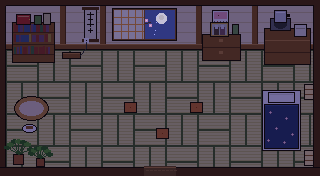
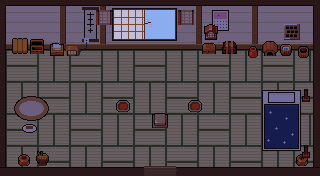
Дом: интерьер собран из ассетов Ninja Adventure, хитбоксы и точки взаимодействия под новую планировку
Claude-Session: https://claude.ai/code/session_0172VACPQPRWiGx6DQKvRskq

diff --git a/src/scenes/Home.ts b/src/scenes/Home.ts
@@ -13,16 +13,16 @@ const S = 3, OY = 6;                                   // масштаб и от
 const P = (x: number, y: number) => ({ x: x * S, y: y * S + OY });
 const SOLIDS: [number, number, number, number][] = [
   [0, 0, 320, 52], [0, 0, 6, 176], [313, 0, 7, 176], [0, 167, 144, 9], [176, 167, 144, 9],   // стены (кромка верхней — по плинтусу)
-  [12, 22, 43, 42], [62, 50, 19, 9], [202, 34, 39, 28], [264, 28, 47, 38],                 // полка, зарядка, комод, кухня
-  [262, 90, 40, 62], [304, 84, 10, 17], [304, 150, 10, 17], [136, 96, 48, 22],             // футон, андоны, котацу
-  [14, 98, 35, 21], [22, 124, 15, 9], [8, 140, 42, 27],                                     // лежанка, миска, растения
+  [10, 40, 72, 17], [198, 36, 42, 21], [244, 40, 70, 18],                                  // шкафы/стол/док, комод с алтарём, кухня
+  [262, 90, 40, 62], [301, 88, 11, 15], [301, 145, 11, 15], [136, 93, 48, 15],             // футон, андоны, столик
+  [14, 98, 35, 21], [22, 124, 15, 9], [16, 152, 35, 15], [294, 152, 16, 15],                // лежанка, миска, горшки, бонсай
 ];
 type Spot = { key: string; x: number; y: number; hint: string };
 const SP = (key: string, x: number, y: number, hint: string): Spot => ({ key, ...P(x, y), hint });
 const SPOTS: Spot[] = [
-  SP('futon', 254, 122, 'E — лечь спать'), SP('diary', 33, 72, 'E — дневник бабушки Хару'), SP('fuku', 72, 70, 'E — поговорить с Фуку'),
-  SP('photo', 221, 70, 'E — фотография'), SP('window', 144, 60, 'E — посмотреть в окно'), SP('tea', 286, 74, 'E — заварить чай'),
-  SP('kotatsu', 160, 130, 'E — посидеть у котацу'), SP('mochi', 56, 110, 'E — погладить Моти'), SP('door', 160, 160, 'E — выйти во двор'),
+  SP('futon', 254, 122, 'E — лечь спать'), SP('diary', 57, 70, 'E — дневник бабушки Хару'), SP('fuku', 72, 70, 'E — поговорить с Фуку'),
+  SP('photo', 214, 70, 'E — фотография'), SP('window', 144, 60, 'E — посмотреть в окно'), SP('tea', 278, 72, 'E — заварить чай'),
+  SP('kotatsu', 160, 124, 'E — посидеть у котацу'), SP('mochi', 56, 110, 'E — погладить Моти'), SP('door', 160, 160, 'E — выйти во двор'),
 ];
 
 export class Home extends Phaser.Scene {
@@ -63,7 +63,7 @@ export class Home extends Phaser.Scene {
     this.add.image(0, OY, 'home-px-day').setOrigin(0).setScale(S);
     this.roomNight = this.add.image(0, OY, 'home-px-night').setOrigin(0).setScale(S).setAlpha(night ? 1 : 0);
     // свет вечером: две лампы-андон у футона, тёплое пятно над котацу, лунный свет из окна
-    for (const [x, y, s, c] of [[308, 92, 1.3, 0xffc878], [308, 158, 1.3, 0xffc878], [160, 104, 3.0, 0xffb060], [144, 40, 1.8, 0x9fb8ff]] as [number, number, number, number][]) {
+    for (const [x, y, s, c] of [[306, 94, 1.3, 0xffc878], [306, 150, 1.3, 0xffc878], [160, 104, 3.0, 0xffb060], [144, 40, 1.8, 0x9fb8ff]] as [number, number, number, number][]) {
       const p = P(x, y);
       const g = this.add.image(p.x, p.y, 'glow').setScale(s).setBlendMode(Phaser.BlendModes.ADD).setTint(c).setAlpha(night ? 0.42 : 0);
       this.tweens.add({ targets: g, scale: s * 0.94, duration: 1300, yoyo: true, repeat: -1, ease: 'Sine.inOut' });
@@ -73,10 +73,10 @@ export class Home extends Phaser.Scene {
     const fp = P(262, 90);
     this.futonSleep = this.add.image(fp.x, fp.y, 'home-px-sleep').setOrigin(0).setScale(S).setAlpha(0).setDepth(fp.y + 1);
     // котацу — отдельным спрайтом: за ним можно пройти
-    const kp = P(132, 86);
-    this.add.image(kp.x, kp.y, 'home-px-kot-day').setOrigin(0).setScale(S).setDepth(kp.y + 34 * S);
-    this.kotNight = this.add.image(kp.x, kp.y, 'home-px-kot-night').setOrigin(0).setScale(S).setDepth(kp.y + 34 * S + 1).setAlpha(night ? 1 : 0);
-    const steam = P(160, 88);
+    const kp = P(136, 92);
+    this.add.image(kp.x, kp.y, 'home-px-kot-day').setOrigin(0).setScale(S).setDepth(kp.y + 16 * S);
+    this.kotNight = this.add.image(kp.x, kp.y, 'home-px-kot-night').setOrigin(0).setScale(S).setDepth(kp.y + 16 * S + 1).setAlpha(night ? 1 : 0);
+    const steam = P(160, 94);
     this.add.particles(steam.x, steam.y, 'pixel', { speedY: { min: -14, max: -8 }, speedX: { min: -3, max: 3 }, lifespan: 1400, frequency: 280,
       scale: { start: 3, end: 1 }, alpha: { start: 0.5, end: 0 }, tint: 0xffffff }).setDepth(kp.y + 200);
 

diff --git a/tools/art/home_px.py b/tools/art/home_px.py
@@ -17,7 +17,7 @@ GR, GD = (96, 160, 72), (58, 110, 56)
 def box(d, x0, y0, x1, y1, fill, outline=K):
     d.rectangle((x0, y0, x1, y1), fill=outline); d.rectangle((x0 + 1, y0 + 1, x1 - 1, y1 - 1), fill=fill)
 
-def room(night):
+def room(night, bare=False):
     im = Image.new('RGB', (W, H), K); d = ImageDraw.Draw(im)
     # ---- пол: татами (маты 16×32 и 32×16 вперемешку, как в японской комнате) ----
     FX0, FY0, FX1, FY1 = 6, 50, 313, 167
@@ -69,51 +69,57 @@ def room(night):
     for y in (21, 24, 27):
         for x in range(214, 227, 3): d.point((x, y), fill=(200, 80, 80) if (x + y) % 7 == 0 else (120, 110, 100))
     # ---- книжная полка с дневником (левый верхний угол) ----
-    box(d, 12, 22, 54, 62, WM)
-    for y in (32, 44, 54): d.line((13, y, 53, y), fill=WD)
-    cols = [(150, 60, 60), (70, 110, 80), (70, 90, 140), (180, 150, 80), (120, 80, 120)]
-    for row, y0 in enumerate((24, 34, 46)):
-        x = 14
-        while x < 50:
-            w = R.choice([2, 3, 3, 4]); c = R.choice(cols)
-            d.rectangle((x, y0 + R.randrange(0, 2), x + w - 1, y0 + 7), fill=c); x += w + (1 if R.random() < 0.3 else 0)
-    box(d, 16, 14, 30, 24, (190, 50, 60)); d.line((18, 16, 28, 16), fill=(230, 160, 120)); d.point((29, 19), fill=(240, 200, 90))   # дневник Хару
-    box(d, 34, 15, 41, 24, (96, 140, 80)); box(d, 43, 13, 50, 24, (210, 196, 150))                                              # чайные банки
+    if not bare:
+        box(d, 12, 22, 54, 62, WM)
+        for y in (32, 44, 54): d.line((13, y, 53, y), fill=WD)
+        cols = [(150, 60, 60), (70, 110, 80), (70, 90, 140), (180, 150, 80), (120, 80, 120)]
+        for row, y0 in enumerate((24, 34, 46)):
+            x = 14
+            while x < 50:
+                w = R.choice([2, 3, 3, 4]); c = R.choice(cols)
+                d.rectangle((x, y0 + R.randrange(0, 2), x + w - 1, y0 + 7), fill=c); x += w + (1 if R.random() < 0.3 else 0)
+        box(d, 16, 14, 30, 24, (190, 50, 60)); d.line((18, 16, 28, 16), fill=(230, 160, 120)); d.point((29, 19), fill=(240, 200, 90))   # дневник Хару
+        box(d, 34, 15, 41, 24, (96, 140, 80)); box(d, 43, 13, 50, 24, (210, 196, 150))                                              # чайные банки
     # ---- зарядка Фуку: деревянная подставка и провод от розетки ----
-    box(d, 62, 52, 80, 58, WM); d.line((63, 53, 79, 53), fill=WL)
-    d.rectangle((84, 38, 88, 42), fill=WH); d.point((86, 40), fill=K)                                                           # розетка
-    d.line((86, 42, 86, 48), fill=(60, 60, 70)); d.line((86, 48, 80, 55), fill=(60, 60, 70))
+    if not bare:
+        box(d, 62, 52, 80, 58, WM); d.line((63, 53, 79, 53), fill=WL)
+        d.rectangle((84, 38, 88, 42), fill=WH); d.point((86, 40), fill=K)                                                           # розетка
+        d.line((86, 42, 86, 48), fill=(60, 60, 70)); d.line((86, 48, 80, 55), fill=(60, 60, 70))
     # ---- комод с фото бабушки и дедушки ----
-    box(d, 202, 34, 240, 60, WM); d.line((203, 47, 239, 47), fill=WD); d.rectangle((219, 39, 222, 41), fill=WL); d.rectangle((219, 51, 222, 53), fill=WL)
-    box(d, 210, 22, 228, 36, (210, 170, 90)); d.rectangle((212, 24, 226, 34), fill=(200, 200, 190))
-    d.rectangle((214, 27, 218, 34), fill=(90, 70, 70)); d.rectangle((220, 27, 224, 34), fill=(130, 90, 110)); d.rectangle((215, 25, 217, 28), fill=(220, 220, 220)); d.rectangle((221, 25, 223, 28), fill=(220, 220, 220))
-    box(d, 232, 24, 238, 34, (120, 160, 100)); d.point((235, 22), fill=PK)   # благовония/цветок
+    if not bare:
+        box(d, 202, 34, 240, 60, WM); d.line((203, 47, 239, 47), fill=WD); d.rectangle((219, 39, 222, 41), fill=WL); d.rectangle((219, 51, 222, 53), fill=WL)
+        box(d, 210, 22, 228, 36, (210, 170, 90)); d.rectangle((212, 24, 226, 34), fill=(200, 200, 190))
+        d.rectangle((214, 27, 218, 34), fill=(90, 70, 70)); d.rectangle((220, 27, 224, 34), fill=(130, 90, 110)); d.rectangle((215, 25, 217, 28), fill=(220, 220, 220)); d.rectangle((221, 25, 223, 28), fill=(220, 220, 220))
+        box(d, 232, 24, 238, 34, (120, 160, 100)); d.point((235, 22), fill=PK)   # благовония/цветок
     # ---- кухонный уголок: стол-тумба, плитка, чайник ----
-    box(d, 264, 28, 310, 64, WM); d.line((265, 40, 309, 40), fill=WL); d.line((265, 52, 309, 52), fill=WD)
-    box(d, 270, 18, 290, 30, (110, 110, 120)); d.ellipse((274, 20, 286, 28), fill=(60, 60, 70))
-    box(d, 274, 10, 286, 22, (200, 200, 205)); d.line((276, 12, 284, 12), fill=WH); d.rectangle((286, 14, 289, 16), fill=K)        # чайник
-    box(d, 294, 24, 306, 36, (232, 226, 210)); d.line((296, 28, 304, 28), fill=(180, 170, 150))                                       # посуда
+    if not bare:
+        box(d, 264, 28, 310, 64, WM); d.line((265, 40, 309, 40), fill=WL); d.line((265, 52, 309, 52), fill=WD)
+        box(d, 270, 18, 290, 30, (110, 110, 120)); d.ellipse((274, 20, 286, 28), fill=(60, 60, 70))
+        box(d, 274, 10, 286, 22, (200, 200, 205)); d.line((276, 12, 284, 12), fill=WH); d.rectangle((286, 14, 289, 16), fill=K)        # чайник
+        box(d, 294, 24, 306, 36, (232, 226, 210)); d.line((296, 28, 304, 28), fill=(180, 170, 150))                                       # посуда
     # ---- футон у правой стены, лампы-андон ----
     box(d, 262, 90, 300, 150, WH)
     box(d, 264, 104, 298, 148, BM); d.line((265, 105, 297, 105), fill=BL)
     for (x, y) in [(270, 112), (286, 118), (276, 128), (292, 134), (268, 140), (284, 142)]:
         d.rectangle((x - 1, y, x + 1, y), fill=PK); d.rectangle((x, y - 1, x, y + 1), fill=PK); d.point((x, y), fill=WH)
     box(d, 268, 92, 294, 102, WH); d.line((270, 94, 292, 94), fill=(226, 222, 214))                                                  # подушка
-    for (x, y) in [(304, 84), (304, 150)]:
+    for (x, y) in ([] if bare else [(304, 84), (304, 150)]):
         box(d, x, y, x + 9, y + 15, (250, 226, 160) if night else (236, 220, 180)); d.line((x + 1, y + 5, x + 8, y + 5), fill=WM); d.line((x + 1, y + 10, x + 8, y + 10), fill=WM)
     # ---- лежанка Моти и миска ----
     d.ellipse((14, 96, 48, 120), fill=K); d.ellipse((15, 97, 47, 119), fill=(196, 140, 82)); d.ellipse((19, 101, 43, 115), fill=(236, 214, 190))
     d.ellipse((22, 124, 36, 132), fill=K); d.ellipse((23, 125, 35, 131), fill=WH); d.rectangle((26, 126, 32, 128), fill=(150, 90, 60))
     # ---- растения в углах ----
-    for (cx, by, s) in [(18, 164, 1.0), (40, 166, 0.8)]:
-        pw = int(10 * s); box(d, cx - pw // 2, by - int(10 * s), cx + pw // 2, by, (170, 96, 64))
-        for i in range(7):
-            ang = -2.6 + i * 0.36; ln = int(14 * s)
-            x2, y2 = cx + int(np.cos(ang) * ln), by - int(10 * s) + int(np.sin(ang) * ln)
-            d.line((cx, by - int(10 * s), x2, y2), fill=GD); d.ellipse((x2 - 3, y2 - 2, x2 + 3, y2 + 2), fill=GR if i % 2 else GD)
+    if not bare:
+        for (cx, by, s) in [(18, 164, 1.0), (40, 166, 0.8)]:
+            pw = int(10 * s); box(d, cx - pw // 2, by - int(10 * s), cx + pw // 2, by, (170, 96, 64))
+            for i in range(7):
+                ang = -2.6 + i * 0.36; ln = int(14 * s)
+                x2, y2 = cx + int(np.cos(ang) * ln), by - int(10 * s) + int(np.sin(ang) * ln)
+                d.line((cx, by - int(10 * s), x2, y2), fill=GD); d.ellipse((x2 - 3, y2 - 2, x2 + 3, y2 + 2), fill=GR if i % 2 else GD)
     # дзабутоны вокруг котацу (низкие, можно наступать)
-    for (x, y) in [(124, 102), (190, 102), (156, 128)]:
-        box(d, x, y, x + 12, y + 10, (214, 120, 70)); d.point((x + 6, y + 5), fill=(160, 70, 40))
+    if not bare:
+        for (x, y) in [(124, 102), (190, 102), (156, 128)]:
+            box(d, x, y, x + 12, y + 10, (214, 120, 70)); d.point((x + 6, y + 5), fill=(160, 70, 40))
     a = np.asarray(im).astype(float)
     if night:
         a *= np.array([0.46, 0.44, 0.66]); a[10:39, 114:175] = np.asarray(im)[10:39, 114:175] * np.array([0.8, 0.8, 1.0])   # окно чуть светлее
@@ -142,8 +148,47 @@ def sleeper():
     d.rectangle((6, 15, 34, 22), fill=BL); d.line((6, 15, 34, 15), fill=K)                 # одеяло подтянуто
     d.ellipse((8, 18, 32, 34), fill=BL)                                                     # бугорок под одеялом
     return base
+TS = Image.open('/home/claude/assets_src/packs/sp/ninja-adventure/background-elements/tileset.png').convert('RGBA')
+WS = Image.open('/home/claude/assets_src/na_extra/tileset_wall_simple.png').convert('RGBA')
+def tl(x, y, w=1, h=1, src=TS):
+    t = src.crop((x * 16, y * 16, (x + w) * 16, (y + h) * 16)); bb = t.getbbox(); return t.crop(bb) if bb else t
+def room2(night):
+    """Комната из ассетов Ninja Adventure: стены-рамка (tileset_wall_simple), мебель и утварь (tileset), + татами, окно и футон."""
+    im = room(False, bare=True).convert('RGBA'); d = ImageDraw.Draw(im)
+    for x in (96, 178): im.alpha_composite(tl(11, 3), (x, 10))      # бумажные сёдзи по бокам окна
+    # ---- мебель NA ----
+    P = lambda t, x, y: im.alpha_composite(t, (x, y - t.height))       # (x, низ)
+    P(tl(12, 4), 12, 54); P(tl(11, 5), 30, 54)                          # шкаф и комод-тансу (левый угол)
+    P(tl(8, 6), 50, 56)                                                  # письменный столик с бумагами — тут дневник
+    P(tl(15, 3), 66, 56)                                                 # ящичек-док: зарядка Фуку
+    P(tl(11, 4), 202, 54); P(tl(10, 5), 204, 40)                         # сундук + домашний алтарь с фото
+    P(tl(12, 5), 222, 54)
+    P(tl(12, 6), 262, 56); P(tl(9, 6), 280, 56); P(tl(13, 3), 298, 58)   # кухня: кадка риса, умывальник, ведро
+    P(tl(12, 3), 248, 58)
+    P(tl(16, 7), 284, 40)                                                # лоток с яйцами на полке
+    for (x, y) in [(18, 166), (296, 166)]: P(tl(1, 6), x, y)            # горшки
+    P(tl(13, 4), 36, 166)                                                # бонсай
+    P(tl(10, 6), 302, 102); P(tl(10, 6), 302, 158)                       # стойки-андон у футона
+    P(tl(12, 7), 116, 112); P(tl(12, 7), 188, 112); P(tl(13, 7), 152, 128)   # дзабутоны вокруг столика
+    # провод от розетки к доку Фуку
+    d.rectangle((84, 38, 88, 42), fill=WH); d.point((86, 40), fill=K); d.line((86, 42, 86, 47), fill=(60, 60, 70)); d.line((86, 47, 78, 52), fill=(60, 60, 70))
+    # стены-рамка NA (коричневые): левая/правая/нижняя кромка
+    out = im.convert('RGB')
+    a = np.asarray(out).astype(float)
+    if night:
+        a *= np.array([0.46, 0.44, 0.66]); a[10:39, 114:175] = np.asarray(out)[10:39, 114:175] * np.array([0.8, 0.8, 1.0])
+    return Image.fromarray(a.clip(0, 255).astype(np.uint8))
+def table2(night):
+    """Низкий столик-тябудай (NA) с чайником и чашками — отдельным спрайтом."""
+    t = tl(14, 6, 3, 1).copy(); d = ImageDraw.Draw(t)
+    w = t.width
+    box(d, w // 2 - 5, 0, w // 2 + 5, 7, (200, 200, 205)); d.line((w // 2 - 3, 2, w // 2 + 3, 2), fill=WH); d.rectangle((w // 2 + 5, 3, w // 2 + 7, 4), fill=K)
+    for x in (8, w - 14): box(d, x, 2, x + 6, 7, (232, 226, 210)); d.rectangle((x + 2, 3, x + 4, 4), fill=(110, 160, 90))
+    if night:
+        a = np.asarray(t).astype(float); a[..., :3] *= np.array([0.62, 0.56, 0.62]); t = Image.fromarray(a.clip(0, 255).astype(np.uint8))
+    return t
 for n in (False, True):
     tag = 'night' if n else 'day'
-    room(n).save(OUT + f'px_{tag}.png'); kotatsu(n).save(OUT + f'px_kotatsu_{tag}.png')
+    room2(n).save(OUT + f'px_{tag}.png'); table2(n).save(OUT + f'px_kotatsu_{tag}.png')
 sleeper().save(OUT + 'px_futon_sleep.png')
 print('home px ok')
